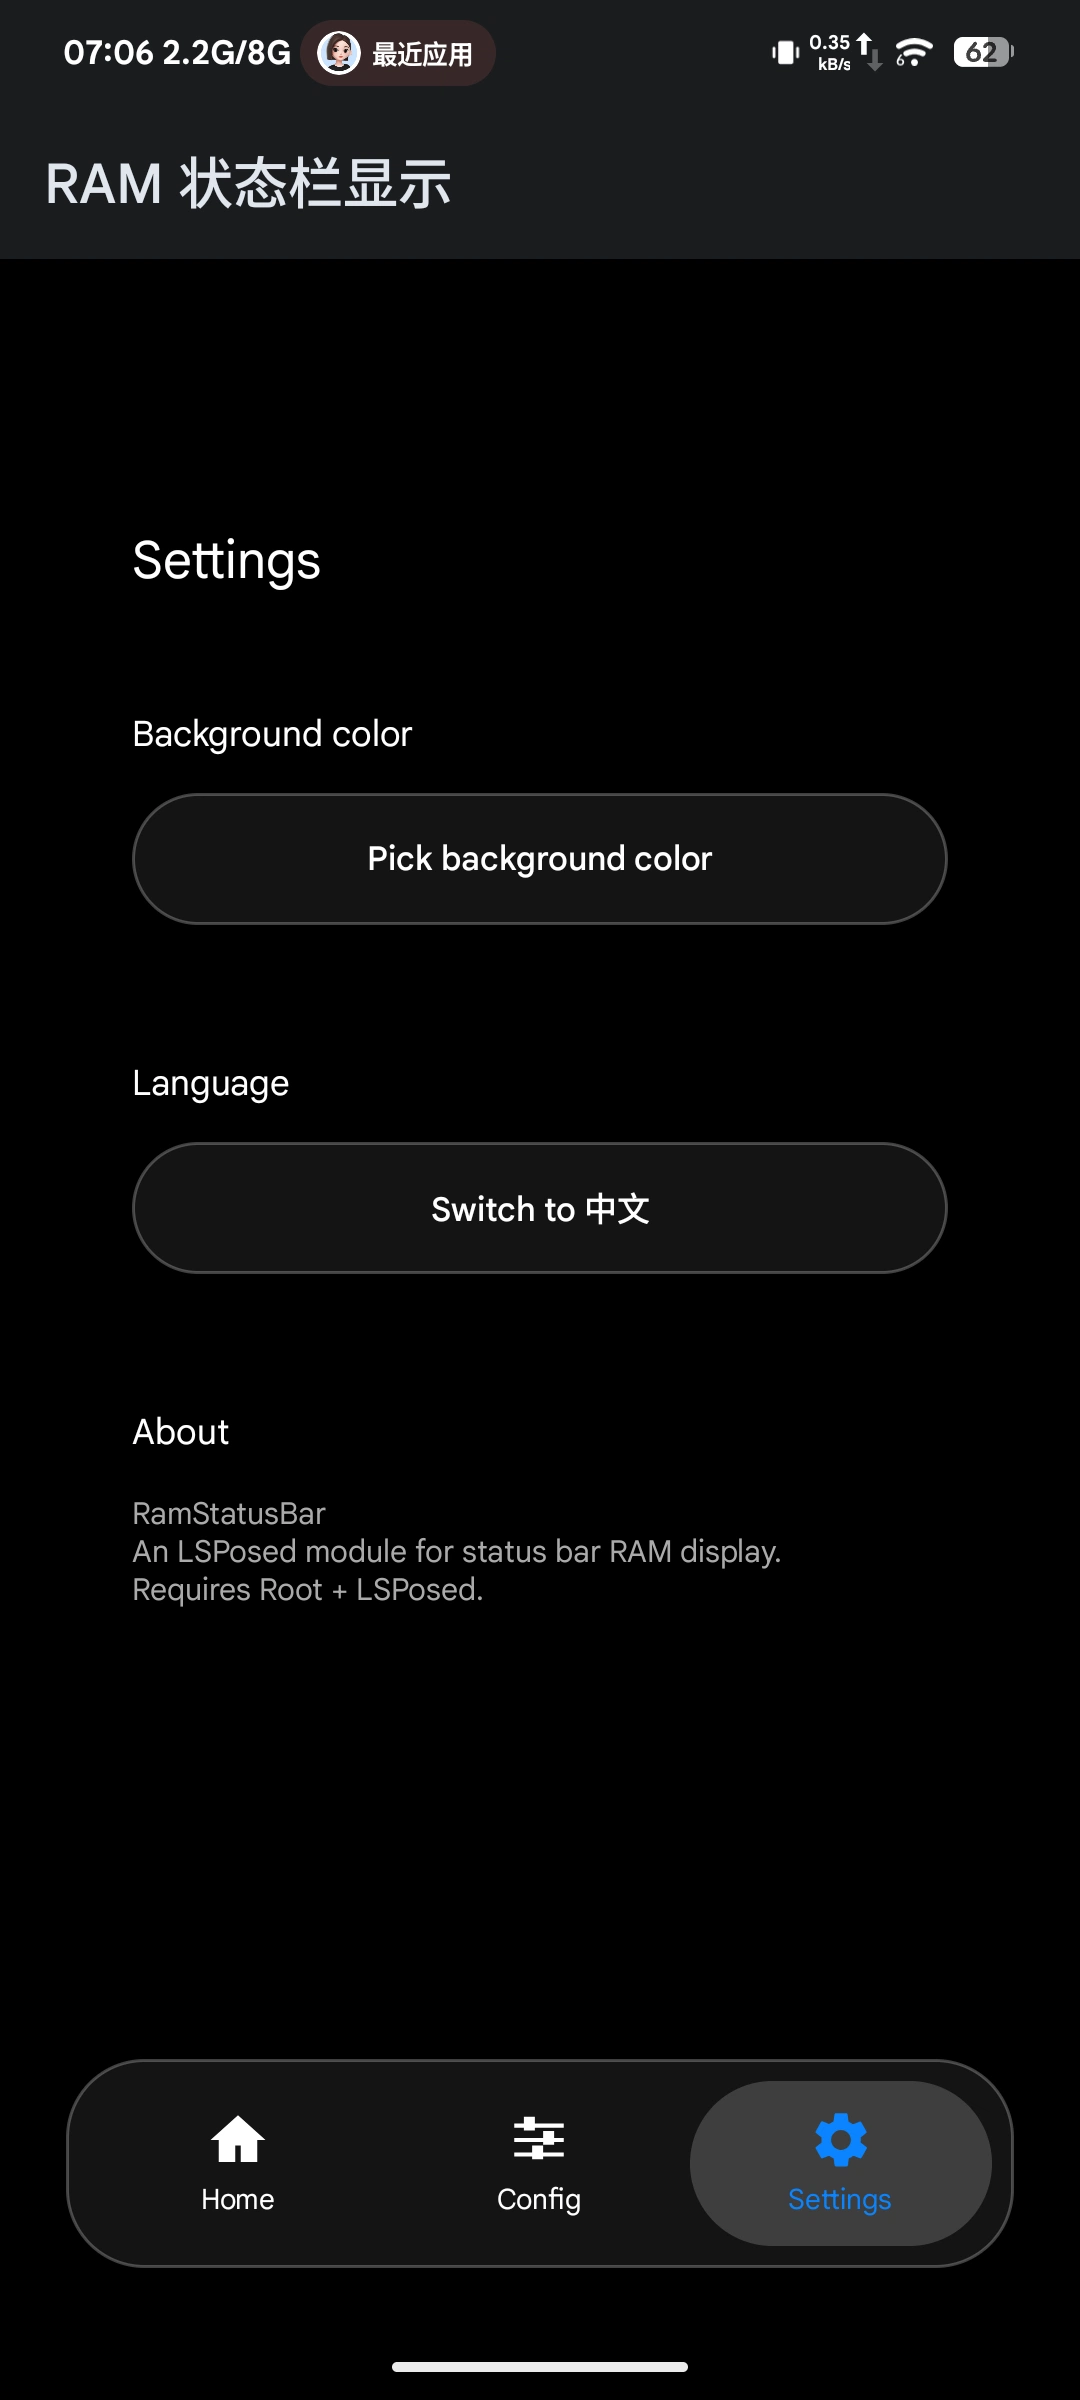
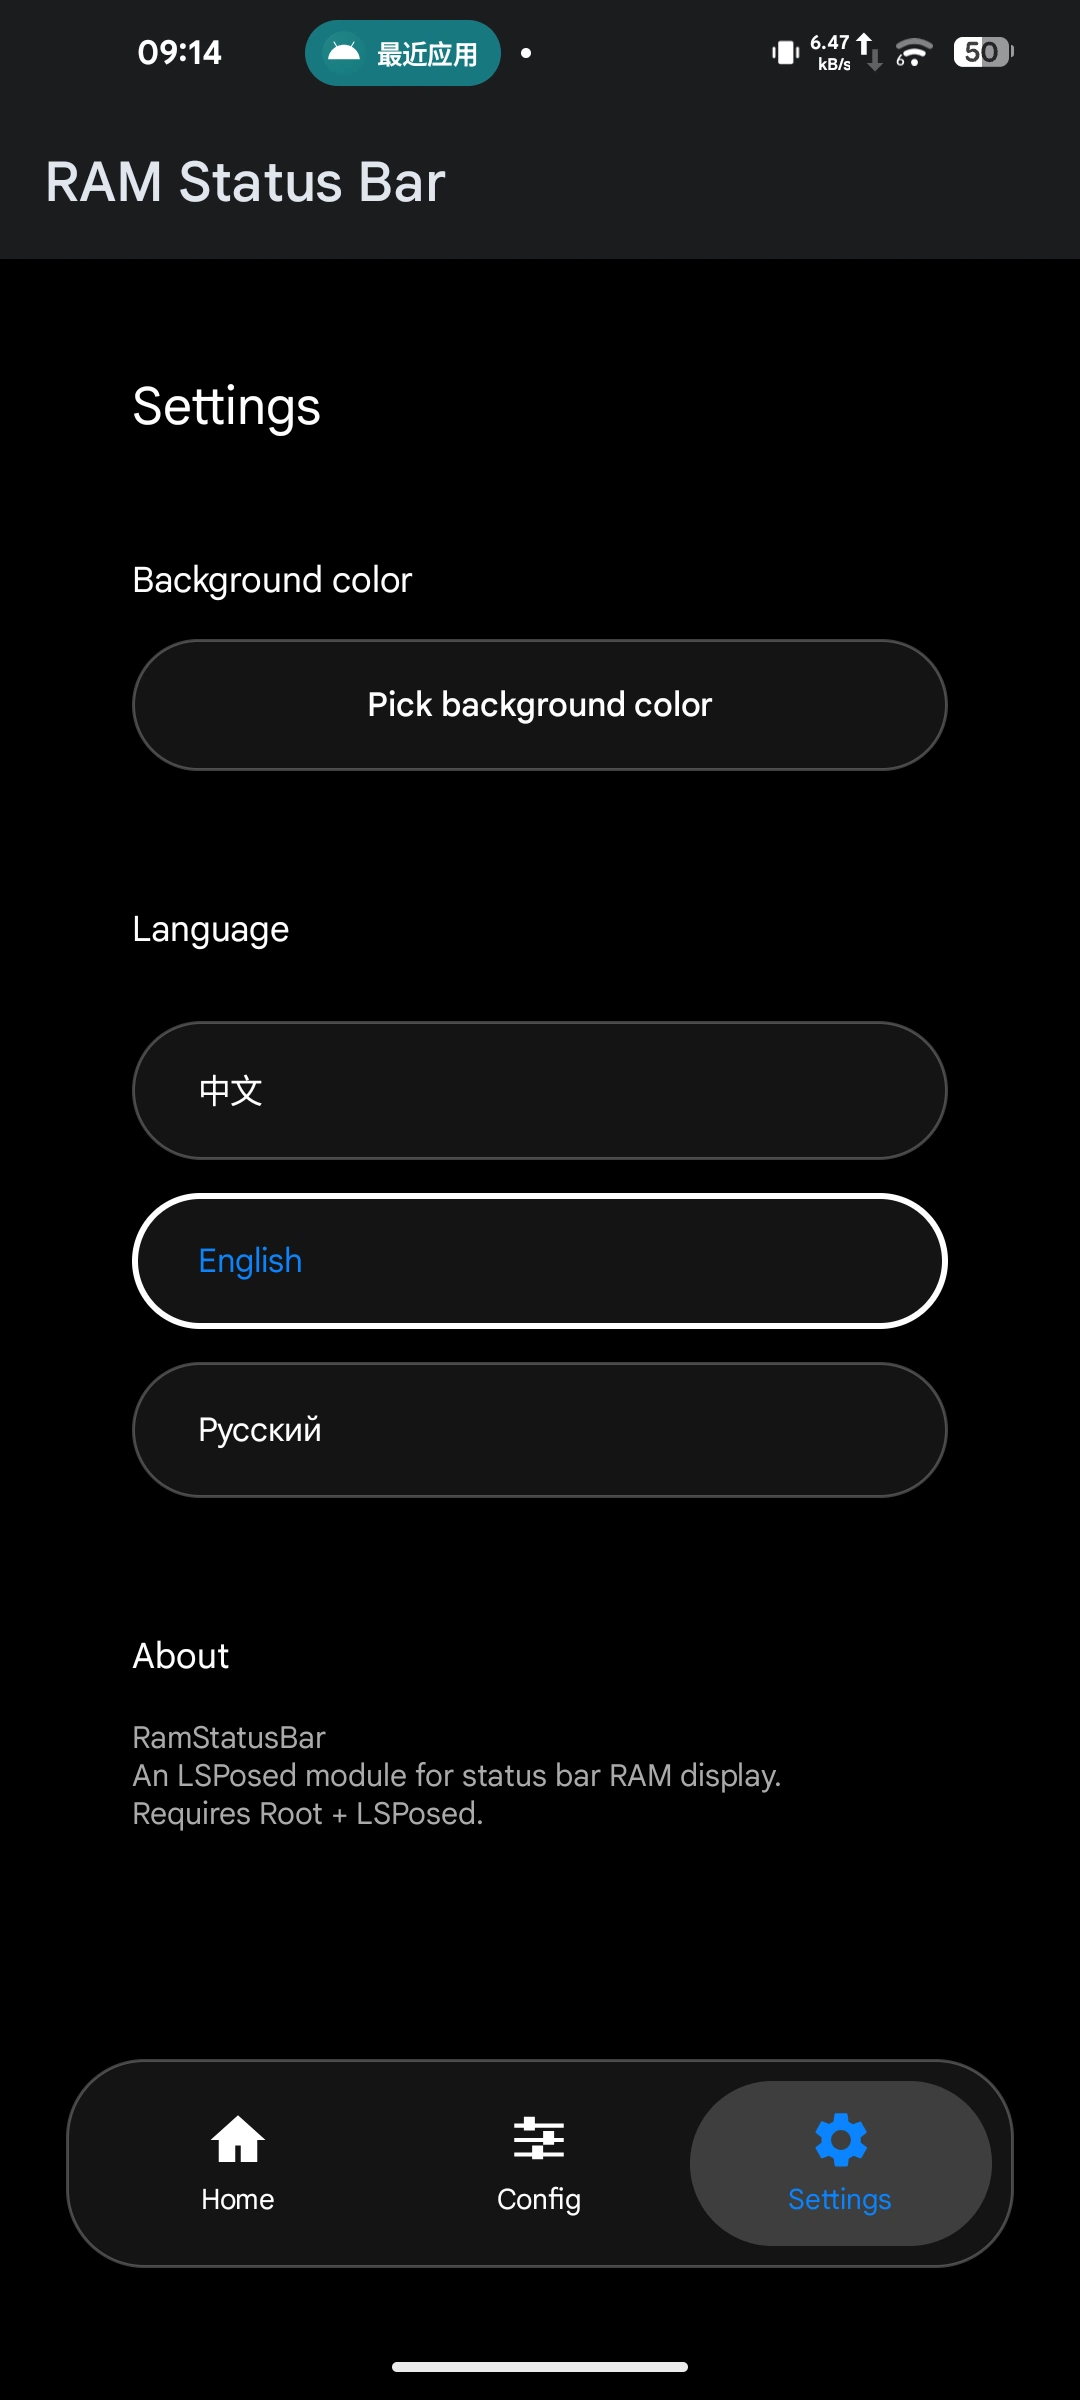
docs: 更新项目介绍，替换设置页截图为最新版
- README项目介绍加入三页底部导航和三语支持说明
- 顶部亮点列表加入玻璃质感UI和多语言特性
- 设置页截图替换为最新版(英文界面+三语选择按钮)
- RELEASE_BODY模板同步更新
- 当前Release正文同步更新

diff --git a/README.md b/README.md
@@ -14,6 +14,12 @@
 **内置 HSV 取色盘，可自定义胶囊背景颜色，并附带深度休眠统计。**
 *Built-in HSV color picker for the capsule background, plus deep sleep stats.*
 
+**三页底部导航：主页 / 配置 / 设置，玻璃质感 UI。**
+*Three-tab bottom navigation: Home / Config / Settings, with glassmorphism UI.*
+
+**支持中文 / English / Русский 三种语言。**
+*Supports three languages: 中文 / English / Русский.*
+
 **纯 Hook 方案，无需修改系统，切换模式约 1 秒生效。**
 *Pure Hook approach — no system modification, mode switch takes effect in ~1 second.*
 
@@ -33,6 +39,10 @@
   *Instant effect: switching display modes takes effect within ~1 second, no reboot needed.*
 - **所见即所得**：内置 HSV 取色盘，可自由定制状态栏胶囊的背景颜色、亮度与透明度
   *WYSIWYG: built-in HSV color picker to freely customize the capsule background color, brightness and transparency.*
+- **三页底部导航**：主页（介绍 + 深度休眠）、配置（显示模式）、设置（背景颜色 + 语言），玻璃质感 UI
+  *Three-tab bottom nav: Home (intro + deep sleep), Config (display modes), Settings (background + language), with glassmorphism UI.*
+- **多语言支持**：内置中文 / English / Русский 三种语言，设置页一键切换
+  *Multilingual: built-in 中文 / English / Русский, switchable from the Settings page.*
 
 > ⚠ 需要 **Root** 权限 + **LSPosed / Vector Manager** 环境。
 > ⚠ Requires **Root** access + **LSPosed / Vector Manager** environment.

diff --git a/.github/RELEASE_BODY.md b/.github/RELEASE_BODY.md
@@ -28,6 +28,10 @@
   *Customizable background: built-in HSV color picker with brightness & opacity sliders*
 - **深度休眠统计**：直接显示开机以来的休眠时长与占比
   *Deep sleep stats: shows deep sleep duration & ratio since boot*
+- **三页底部导航**：主页 / 配置 / 设置，玻璃质感 UI
+  *Three-tab bottom nav: Home / Config / Settings, glassmorphism UI*
+- **多语言**：中文 / English / Русский 一键切换
+  *Multilingual: 中文 / English / Русский, switch in one tap*
 
 ---
 
